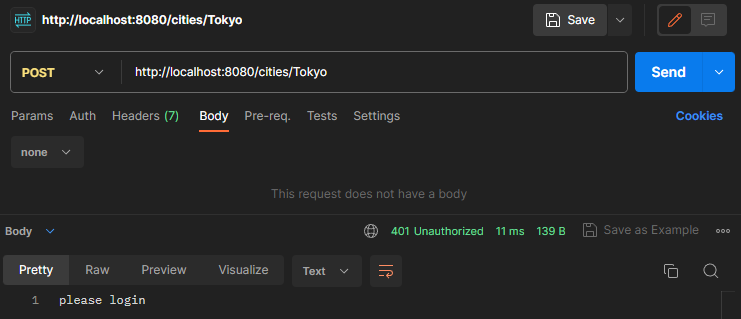
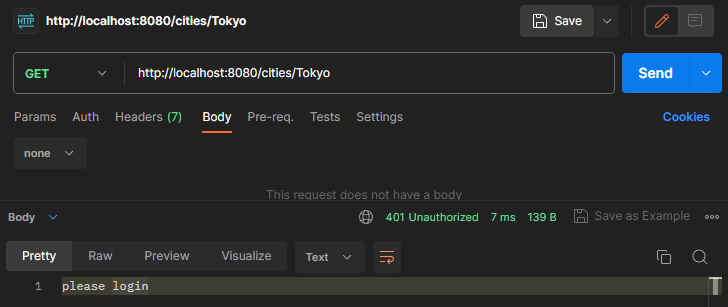
3_verify.mdの書き換えも完成、postman1.pngがPOSTになってたのをGETに修正

diff --git a/docs/chapter2/section1/src/0/final/handler.go b/docs/chapter2/section1/src/0/final/handler.go
@@ -6,6 +6,7 @@ import (
 	"fmt"
 	"github.com/jmoiron/sqlx"
 	"github.com/labstack/echo-contrib/session"
+	"github.com/labstack/echo/v4"
 	"golang.org/x/crypto/bcrypt"
 	"log"
 	"net/http"
@@ -41,10 +42,13 @@ type Me struct {
 	Username string `json:"username,omitempty"  db:"username"`
 }
 
-func (h *Handler) signUpHandler(c echo.Context) error {
+func (h *Handler) SignUpHandler(c echo.Context) error {
 	// リクエストを受け取り、reqに格納する
 	req := LoginRequestBody{}
-	c.Bind(&req)
+	err := c.Bind(&req)
+	if err != nil {
+		return echo.NewHTTPError(http.StatusBadRequest, "bad request body")
+	}
 
 	// バリデーションする(PasswordかUsernameが空文字列の場合は400 BadRequestを返す)
 	if req.Password == "" || req.Username == "" {
@@ -53,7 +57,7 @@ func (h *Handler) signUpHandler(c echo.Context) error {
 
 	// 登録しようとしているユーザーが既にデータベース内に存在するかチェック
 	var count int
-	err := h.db.Get(&count, "SELECT COUNT(*) FROM users WHERE Username=?", req.Username)
+	err = h.db.Get(&count, "SELECT COUNT(*) FROM users WHERE Username=?", req.Username)
 	if err != nil {
 		log.Println(err)
 		return c.NoContent(http.StatusInternalServerError)
@@ -83,14 +87,21 @@ func (h *Handler) signUpHandler(c echo.Context) error {
 }
 
 func (h *Handler) LoginHandler(c echo.Context) error {
+	// リクエストを受け取り、reqに格納する
 	var req LoginRequestBody
-	c.Bind(&req)
+	err := c.Bind(&req)
+	if err != nil {
+		return c.String(http.StatusBadRequest, "bad request body")
+	}
 
+	// バリデーションする(PasswordかUsernameが空文字列の場合は400 BadRequestを返す)
 	if req.Password == "" || req.Username == "" {
 		return c.String(http.StatusBadRequest, "Username or Password is empty")
 	}
+
+	// データベースからユーザーを取得する
 	user := User{}
-	err := h.db.Get(&user, "SELECT * FROM users WHERE username=?", req.Username)
+	err = h.db.Get(&user, "SELECT * FROM users WHERE username=?", req.Username)
 	if err != nil {
 		if errors.Is(err, sql.ErrNoRows) {
 			return c.NoContent(http.StatusUnauthorized)
@@ -99,7 +110,7 @@ func (h *Handler) LoginHandler(c echo.Context) error {
 			return c.NoContent(http.StatusInternalServerError)
 		}
 	}
-
+	// パスワードが一致しているかを確かめる
 	err = bcrypt.CompareHashAndPassword([]byte(user.HashedPass), []byte(req.Password))
 	if err != nil {
 		if errors.Is(err, bcrypt.ErrMismatchedHashAndPassword) {
@@ -109,6 +120,7 @@ func (h *Handler) LoginHandler(c echo.Context) error {
 		}
 	}
 
+	// セッションストアに登録する
 	sess, err := session.Get("sessions", c)
 	if err != nil {
 		fmt.Println(err)
@@ -120,13 +132,38 @@ func (h *Handler) LoginHandler(c echo.Context) error {
 	return c.NoContent(http.StatusOK)
 }
 
+func UserAuthMiddleware(next echo.HandlerFunc) echo.HandlerFunc {
+	return func(c echo.Context) error {
+		sess, err := session.Get("sessions", c)
+		if err != nil {
+			fmt.Println(err)
+			return c.String(http.StatusInternalServerError, "something wrong in getting session")
+		}
+		if sess.Values["userName"] == nil {
+			return c.String(http.StatusUnauthorized, "please login")
+		}
+		c.Set("userName", sess.Values["userName"].(string))
+		return next(c)
+	}
+}
+
+func GetMeHandler(c echo.Context) error {
+	return c.JSON(http.StatusOK, Me{
+		Username: c.Get("userName").(string),
+	})
+}
+
 func (h *Handler) GetCityInfoHandler(c echo.Context) error {
 	cityName := c.Param("cityName")
 
 	var city City
-	h.db.Get(&city, "SELECT * FROM city WHERE Name=?", cityName)
-	if !city.Name.Valid {
-		return c.NoContent(http.StatusNotFound)
+	err := h.db.Get(&city, "SELECT * FROM city WHERE Name=?", cityName)
+	if err != nil {
+		if errors.Is(err, sql.ErrNoRows) {
+			return c.NoContent(http.StatusNotFound)
+		}
+		fmt.Printf("failed to get city data: %s\n", err)
+		return c.NoContent(http.StatusInternalServerError)
 	}
 
 	return c.JSON(http.StatusOK, city)
@@ -141,7 +178,7 @@ func (h *Handler) PostCityHandler(c echo.Context) error {
 
 	result, err := h.db.Exec("INSERT INTO city (Name, CountryCode, District, Population) VALUES (?, ?, ?, ?)", city.Name, city.CountryCode, city.District, city.Population)
 	if err != nil {
-		log.Printf("failed to insert city data: %s\n", err)
+		fmt.Printf("failed to insert city data: %s\n", err)
 		return c.NoContent(http.StatusInternalServerError)
 	}
 
@@ -153,10 +190,4 @@ func (h *Handler) PostCityHandler(c echo.Context) error {
 	city.ID = int(id)
 
 	return c.JSON(http.StatusCreated, city)
-}
-
-func (h *Handler) GetMeHandler(c echo.Context) error {
-	return c.JSON(http.StatusOK, Me{
-		Username: c.Get("userName").(string),
-	})
 }

diff --git a/docs/chapter2/section1/src/0/final/main.go b/docs/chapter2/section1/src/0/final/main.go
@@ -1,35 +1,33 @@
 package main
 
 import (
-	"fmt"
+	"github.com/labstack/echo-contrib/session"
+	"github.com/labstack/echo/v4"
+	"github.com/labstack/echo/v4/middleware"
+	"github.com/srinathgs/mysqlstore"
+	"github.com/traPtitech/naro-template-backend/handler"
 	"log"
-	"net/http"
 	"os"
 	"time"
 
 	"github.com/go-sql-driver/mysql"
+
 	"github.com/jmoiron/sqlx"
 	"github.com/joho/godotenv"
-	"github.com/labstack/echo-contrib/session"
-	"github.com/labstack/echo/v4/middleware"
-	"github.com/srinathgs/mysqlstore"
-)
-
-var (
-	db *sqlx.DB
 )
 
 func main() {
+	// .envファイルから環境変数を読み込み
 	err := godotenv.Load(".env")
-	if err != nil {
-		log.Fatalf(".envファイルが読み込めませんでした。: %v", err)
-	}
-
-	jst, err := time.LoadLocation("Asia/Tokyo")
 	if err != nil {
 		log.Fatal(err)
 	}
 
+	// データーベースの設定
+	jst, err := time.LoadLocation("Asia/Tokyo")
+	if err != nil {
+		log.Fatal(err)
+	}
 	conf := mysql.Config{
 		User:      os.Getenv("DB_USERNAME"),
 		Passwd:    os.Getenv("DB_PASSWORD"),
@@ -41,54 +39,40 @@ func main() {
 		Loc:       jst,
 	}
 
-	_db, err := sqlx.Open("mysql", conf.FormatDSN())
-
+	// データベースに接続
+	db, err := sqlx.Open("mysql", conf.FormatDSN())
 	if err != nil {
 		log.Fatal(err)
 	}
 
-	db = _db
-
+	// usersテーブルが存在しなかったら、usersテーブルを作成する
 	_, err = db.Exec("CREATE TABLE IF NOT EXISTS users (Username VARCHAR(255) PRIMARY KEY, HashedPass VARCHAR(255))")
-
 	if err != nil {
 		log.Fatal(err)
 	}
 
+	// セッションの情報を記憶するための場所をデータベース上に設定
 	store, err := mysqlstore.NewMySQLStoreFromConnection(db.DB, "sessions", "/", 60*60*24*14, []byte("secret-token"))
-
 	if err != nil {
 		log.Fatal(err)
 	}
 
+	h := handler.NewHandler(db)
 	e := echo.New()
-	e.Use(middleware.Logger())
-	e.Use(session.Middleware(store))
+	e.Use(middleware.Logger())       // ログを取るミドルウェアを追加
+	e.Use(session.Middleware(store)) // セッション管理のためのミドルウェアを追加
 
-	e.POST("/login", loginHandler)
-	e.POST("/signup", signUpHandler)
+	e.POST("/signup", h.SignUpHandler)
+	e.POST("/login", h.LoginHandler)
 
 	withAuth := e.Group("")
-	withAuth.Use(userAuthMiddleware)
-	withAuth.GET("/cities/:cityName", getCityInfoHandler)
-	withAuth.POST("/cities", postCityHandler)
-	withAuth.GET("/me", getMeHandler)
+	withAuth.Use(handler.UserAuthMiddleware)
+	withAuth.GET("/me", handler.GetMeHandler)
+	withAuth.GET("/cities/:cityName", h.GetCityInfoHandler)
+	withAuth.POST("/cities", h.PostCityHandler)
 
-	e.Start(":8080")
-}
-
-func userAuthMiddleware(next echo.HandlerFunc) echo.HandlerFunc {
-	return func(c echo.Context) error {
-		sess, err := session.Get("sessions", c)
-		if err != nil {
-			fmt.Println(err)
-			return c.String(http.StatusInternalServerError, "something wrong in getting session")
-		}
-		if sess.Values["userName"] == nil {
-			return c.String(http.StatusUnauthorized, "please login")
-		}
-		c.Set("userName", sess.Values["userName"].(string))
-
-		return next(c)
+	err = e.Start(":8080")
+	if err != nil {
+		log.Fatal(err)
 	}
 }

diff --git a/docs/chapter2/section1/3_verify.md b/docs/chapter2/section1/3_verify.md
@@ -23,14 +23,16 @@ handler.go
 :::warning
 全て Postman での検証です。  
 `go run main.go`でサーバーを起動した状態で行ってください。
+
+また、`GET`と`POST`を間違えないようにして下さい。
 :::
 
-<a href="http://localhost:8080/cities/Tokyo">localhost:8080/cities/Tokyo</a> へ
-初めに普通にアクセスするとダメです
+初めに<a href="http://localhost:8080/cities/Tokyo">localhost:8080/cities/Tokyo</a>にアクセスすると、ログインしていないため`401 Unauthorized`が返ってきます。そのため、情報を入手することができません。
 ![](postman1/../images/0/postman1.png)
 
 ユーザーを作成します。
-上手く作成できれば Status 201 が返ってくるはずです。
+上手く作成できれば Status 201 が返ってくるはずです。  
+(注意:`POST`です)
 ![](postman1/../images/0/postman2.png)
 
 そのままパスを変えてログインリクエストを送ります。
@@ -46,7 +48,8 @@ handler.go
 Key に`Cookie`を
 Value に`sessions={コピーした値};`をセットします(既に自動で入っている場合もあります、その場合は追加しなくて大丈夫です)。
 
-もう一度 <a href="http://localhost:8080/cities/Tokyo">localhost:8080/cities/Tokyo</a> にアクセスすると正常に API が取れるようになりました。
+もう一度 <a href="http://localhost:8080/cities/Tokyo">localhost:8080/cities/Tokyo</a> にアクセスすると正常に API が取れるようになりました。  
+(注意:`GET`です)
 ![](postman1/../images/0/postman6.png)
 
 ここで、作成されたユーザーがデータベースに保存されていることを確認してみましょう。
